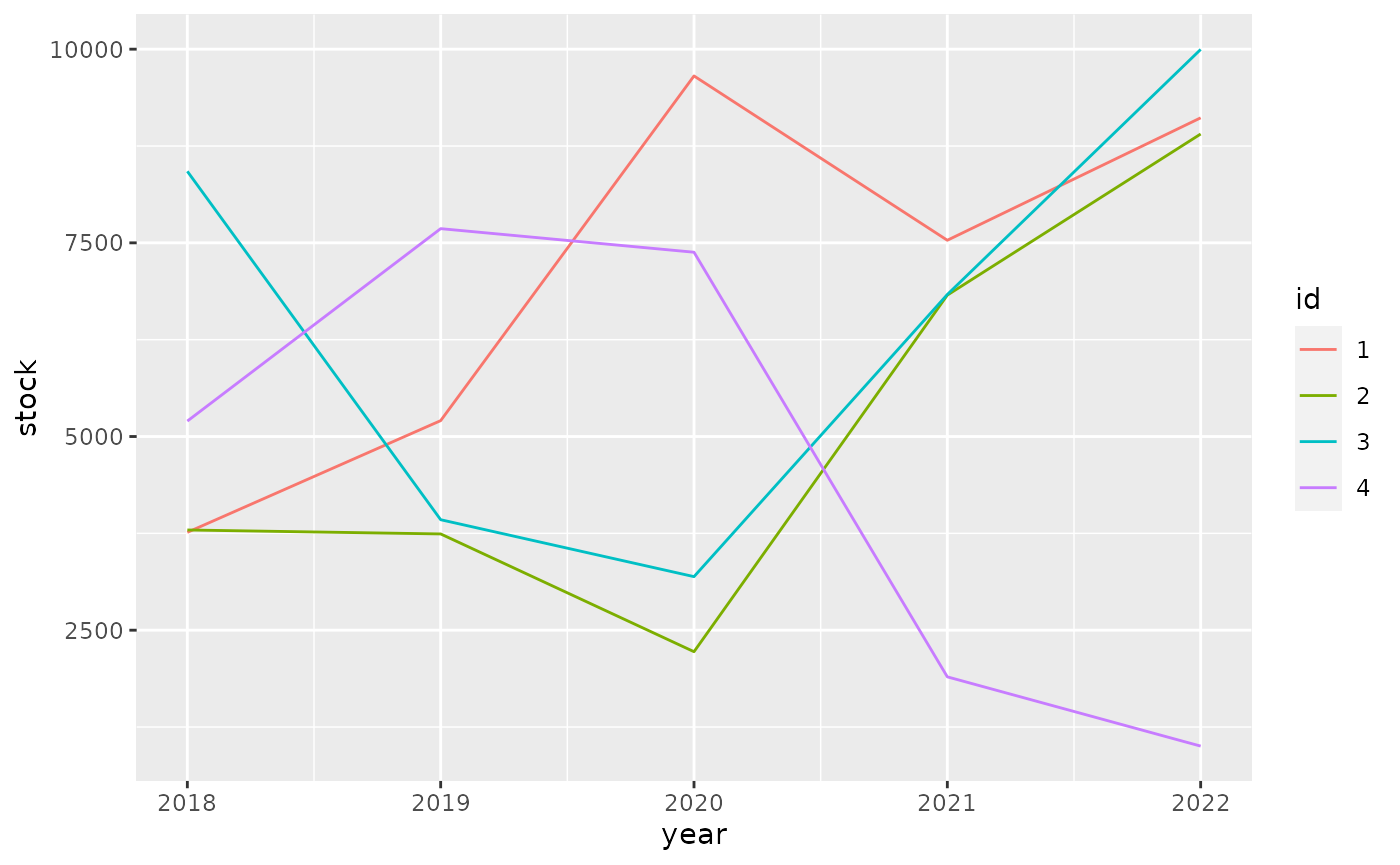
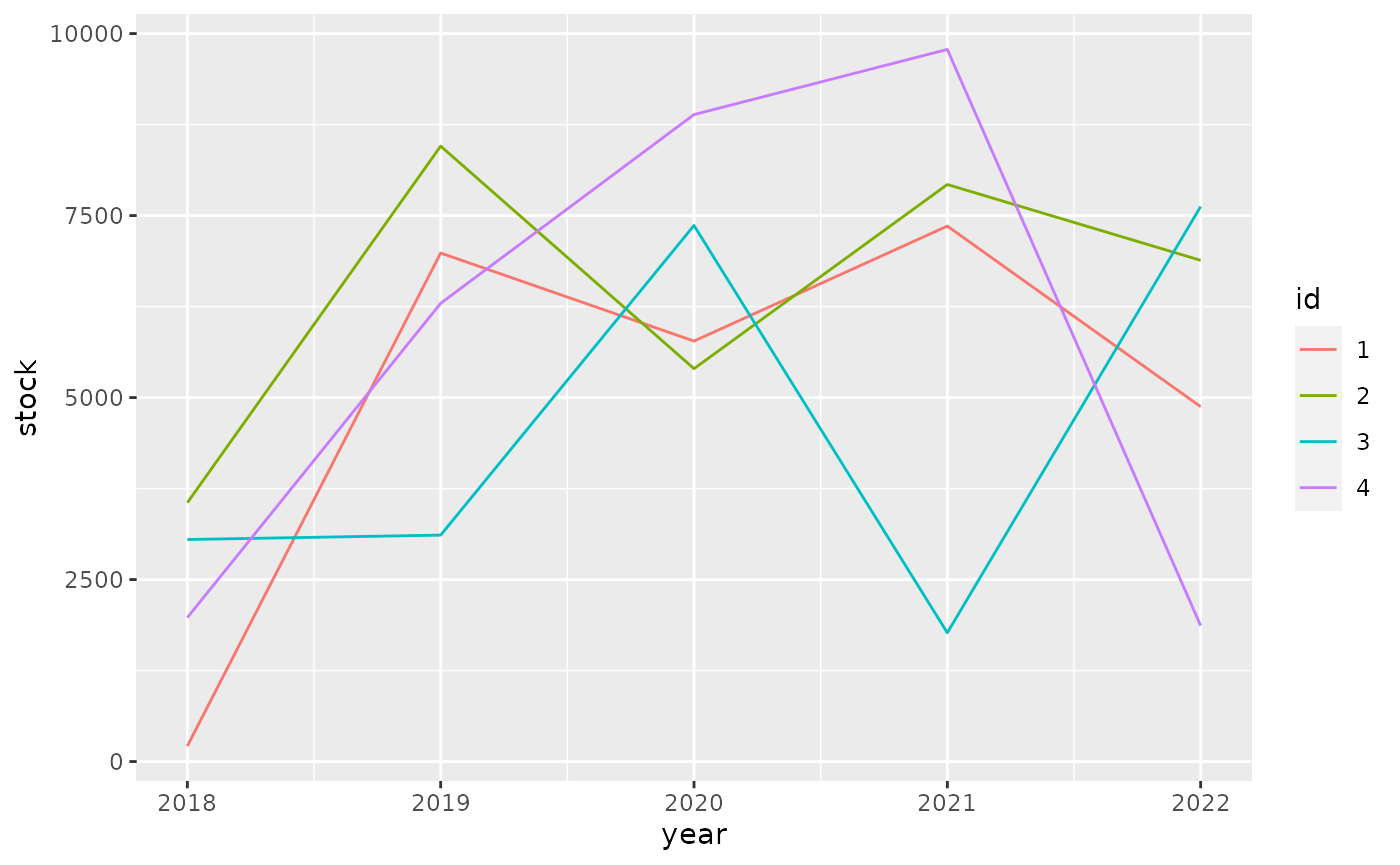
Built site for tibble: 3.0.5.9001@194dcd5

diff --git a/dev/articles/formats.html b/dev/articles/formats.html
@@ -219,10 +219,10 @@
 <span class="co">#&gt; # A tibble: 4 x 6</span>
 <span class="co">#&gt;   id       `2018`    `2019`    `2020`    `2021`    `2022`</span>
 <span class="co">#&gt;   &lt;fct&gt; &lt;dbl:fmt&gt; &lt;dbl:fmt&gt; &lt;dbl:fmt&gt; &lt;dbl:fmt&gt; &lt;dbl:fmt&gt;</span>
-<span class="co">#&gt; 1 1     $3,763.03 $5,205.05 $9,654.42 $7,533.43 $9,113.71</span>
-<span class="co">#&gt; 2 2     $3,793.60 $3,742.47 $2,222.44 $6,825.30 $8,904.95</span>
-<span class="co">#&gt; 3 3     $8,423.42 $3,926.10 $3,191.25 $6,833.14 $9,996.52</span>
-<span class="co">#&gt; 4 4     $5,199.22 $7,683.27 $7,378.91 $1,897.69 $1,003.85</span></code></pre></div>
+<span class="co">#&gt; 1 1       $212.26 $6,985.68 $5,776.00 $7,355.67 $4,874.91</span>
+<span class="co">#&gt; 2 2     $3,555.89 $8,454.21 $5,397.12 $7,926.88 $6,885.28</span>
+<span class="co">#&gt; 3 3     $3,050.00 $3,110.54 $7,364.16 $1,769.24 $7,624.43</span>
+<span class="co">#&gt; 4 4     $1,978.07 $6,295.03 $8,887.58 $9,782.28 $1,866.69</span></code></pre></div>
 <p>For ggplot2 we need to do <a href="https://github.com/tidyverse/ggplot2/pull/4065">some work</a> to show apply the formatting to the scales.</p>
 <div class="sourceCode" id="cb6"><pre class="downlit sourceCode r">
 <code class="sourceCode R"><span class="kw"><a href="https://rdrr.io/r/base/library.html">library</a></span><span class="op">(</span><span class="va"><a href="https://ggplot2.tidyverse.org">ggplot2</a></span><span class="op">)</span>
@@ -233,10 +233,10 @@
   <span class="fu"><a href="https://ggplot2.tidyverse.org/reference/geom_path.html">geom_line</a></span><span class="op">(</span><span class="op">)</span></code></pre></div>
 <p><img src="formats_files/figure-html/unnamed-chunk-7-1.png" width="700"></p>
 <p>It pays off to specify formatting very early in the process. The diagram below shows the principal stages of data analysis and exploration from “R for data science”.</p>
-<div id="htmlwidget-c54ae77f76fde0b4001c" style="width:700px;height:432.632880098888px;" class="DiagrammeR html-widget"></div>
-<script type="application/json" data-for="htmlwidget-c54ae77f76fde0b4001c">{"x":{"diagram":"graph TD\n  Import --> Tidy\n  Tidy --> Transform\n  Transform --> Visualize\n  Visualize --> Communicate\n  Visualize --> Model\n  Model -.-> Transform"},"evals":[],"jsHooks":[]}</script><p>The subsequent diagram adds data formats, communication options, and explicit data formatting. The original r4ds transitions are highlighted in bold. There are two principal options where to apply formatting for results: right before communicating them, or right after importing.</p>
-<div id="htmlwidget-3483d922f2b1e8665081" style="width:700px;height:432.632880098888px;" class="DiagrammeR html-widget"></div>
-<script type="application/json" data-for="htmlwidget-3483d922f2b1e8665081">{"x":{"diagram":"graph TD\n  .csv --> Import\n  API --> Import\n  DBI --> Import\n  dbplyr --> Import\n  Import -.-> Format[Format for analysis]\n  Format -.-> Tidy\n\n  subgraph r4ds\n  Import ==> Tidy\n  Tidy ==> Transform\n  Transform ==> Visualize\n  Visualize ==> Model\n  Model -.-> Transform\n  Visualize ==> Communicate\n  end\n\n  Visualize -.-> FormatComm[Format for communication]\n  FormatComm -.-> Communicate\n\n  FormatComm -- Apply formatting early --> Format\n\n  dbplyr -.-> Tidy\n  dbplyr -.-> Transform\n  dbplyr -.-> Visualize\n\n  Communicate --> gt\n  Communicate --> ggplot2\n  Communicate --> DT\n  Communicate --> plotly"},"evals":[],"jsHooks":[]}</script><p>Applying formatting early in the process gives the added benefit of showing the data in a useful format during the “Tidy”, “Transform”, and “Visualize” stages. For this to be useful, we need to ensure that the formatting options applied early:</p>
+<div id="htmlwidget-1ede674b6ba52f7f7aa8" style="width:700px;height:432.632880098888px;" class="DiagrammeR html-widget"></div>
+<script type="application/json" data-for="htmlwidget-1ede674b6ba52f7f7aa8">{"x":{"diagram":"graph TD\n  Import --> Tidy\n  Tidy --> Transform\n  Transform --> Visualize\n  Visualize --> Communicate\n  Visualize --> Model\n  Model -.-> Transform"},"evals":[],"jsHooks":[]}</script><p>The subsequent diagram adds data formats, communication options, and explicit data formatting. The original r4ds transitions are highlighted in bold. There are two principal options where to apply formatting for results: right before communicating them, or right after importing.</p>
+<div id="htmlwidget-1577fbc3c737634f2cc8" style="width:700px;height:432.632880098888px;" class="DiagrammeR html-widget"></div>
+<script type="application/json" data-for="htmlwidget-1577fbc3c737634f2cc8">{"x":{"diagram":"graph TD\n  .csv --> Import\n  API --> Import\n  DBI --> Import\n  dbplyr --> Import\n  Import -.-> Format[Format for analysis]\n  Format -.-> Tidy\n\n  subgraph r4ds\n  Import ==> Tidy\n  Tidy ==> Transform\n  Transform ==> Visualize\n  Visualize ==> Model\n  Model -.-> Transform\n  Visualize ==> Communicate\n  end\n\n  Visualize -.-> FormatComm[Format for communication]\n  FormatComm -.-> Communicate\n\n  FormatComm -- Apply formatting early --> Format\n\n  dbplyr -.-> Tidy\n  dbplyr -.-> Transform\n  dbplyr -.-> Visualize\n\n  Communicate --> gt\n  Communicate --> ggplot2\n  Communicate --> DT\n  Communicate --> plotly"},"evals":[],"jsHooks":[]}</script><p>Applying formatting early in the process gives the added benefit of showing the data in a useful format during the “Tidy”, “Transform”, and “Visualize” stages. For this to be useful, we need to ensure that the formatting options applied early:</p>
 <ul>
 <li>give a good user experience for analysis
 <ul>

diff --git a/dev/articles/types.html b/dev/articles/types.html
@@ -349,8 +349,8 @@
 #&gt; $ `named list`  &lt;named list&gt; [1]
 #&gt; $ factor        &lt;fct&gt; A
 #&gt; $ ordered       &lt;ord&gt; a
-#&gt; $ Date          &lt;date&gt; 2021-01-27
-#&gt; $ POSIXt        &lt;dttm&gt; 2021-01-27 04:58:17
+#&gt; $ Date          &lt;date&gt; 2021-01-28
+#&gt; $ POSIXt        &lt;dttm&gt; 2021-01-28 09:06:47
 #&gt; $ difftime      &lt;drtn&gt; 1 secs
 #&gt; $ hms           &lt;time&gt; 00:00:01
 #&gt; $ integer64     &lt;int64&gt; 10000000000
@@ -380,7 +380,7 @@
 <span class="co">#&gt;             "sym"</span>
 <span class="co">#&gt;         }, typeof(x))</span>
 <span class="co">#&gt; }</span>
-<span class="co">#&gt; &lt;bytecode: 0x5613699f95e0&gt;</span>
+<span class="co">#&gt; &lt;bytecode: 0x562217f9fb30&gt;</span>
 <span class="co">#&gt; &lt;environment: namespace:pillar&gt;</span></code></pre></div>
 </div>
   </div>
